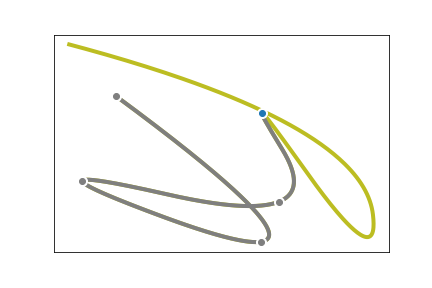
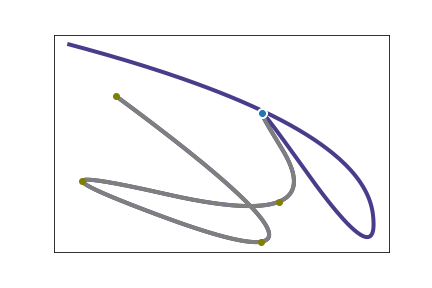
Color Revisions

diff --git a/metavid.py b/metavid.py
@@ -85,7 +85,7 @@ class metavid:
 				plt.plot(
 					olvSplineCoord[0,:],
 					olvSplineCoord[1,:], 
-					c="tab:olive", linewidth = 4
+					c="darkslateblue", linewidth = 4
 					)
 	            
 	            # Gray Spline
@@ -109,11 +109,11 @@ class metavid:
 				plt.plot(
 					self.atoms[0,0:i+1],
 					self.atoms[1,0:i+1], 
-					c="tab:gray", marker='o'
+					c="silver", marker='o'
 					)
 			plt.plot(
-				self.atoms[0,0:i+1],
-				self.atoms[1,0:i+1], 
+				self.atoms[0,i],
+				self.atoms[1,i], 
 				c="white", marker='o', markersize=10, linestyle = 'none'
 				)
 			plt.plot(
@@ -125,7 +125,7 @@ class metavid:
 				plt.plot(
 					self.atoms[0,0:i],
 					self.atoms[1,0:i], 
-					c="tab:gray", marker='o', markersize=6, linestyle = 'none'
+					c="olive", marker='o', markersize=6, linestyle = 'none'
 					)
 					
 			frame1.axes.xaxis.set_visible(False)
